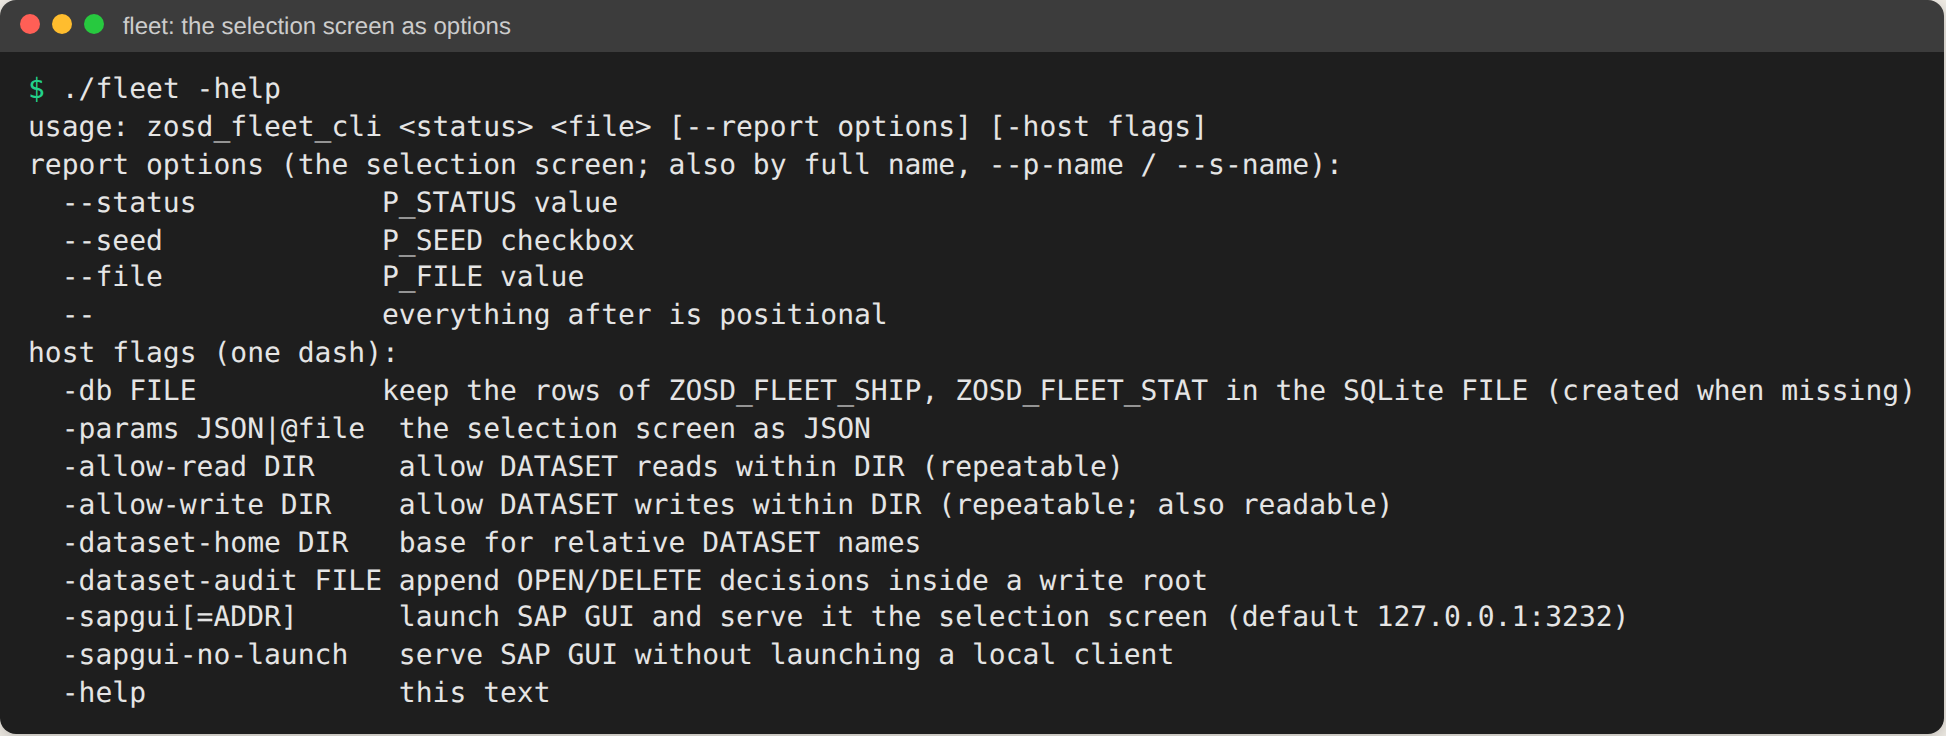
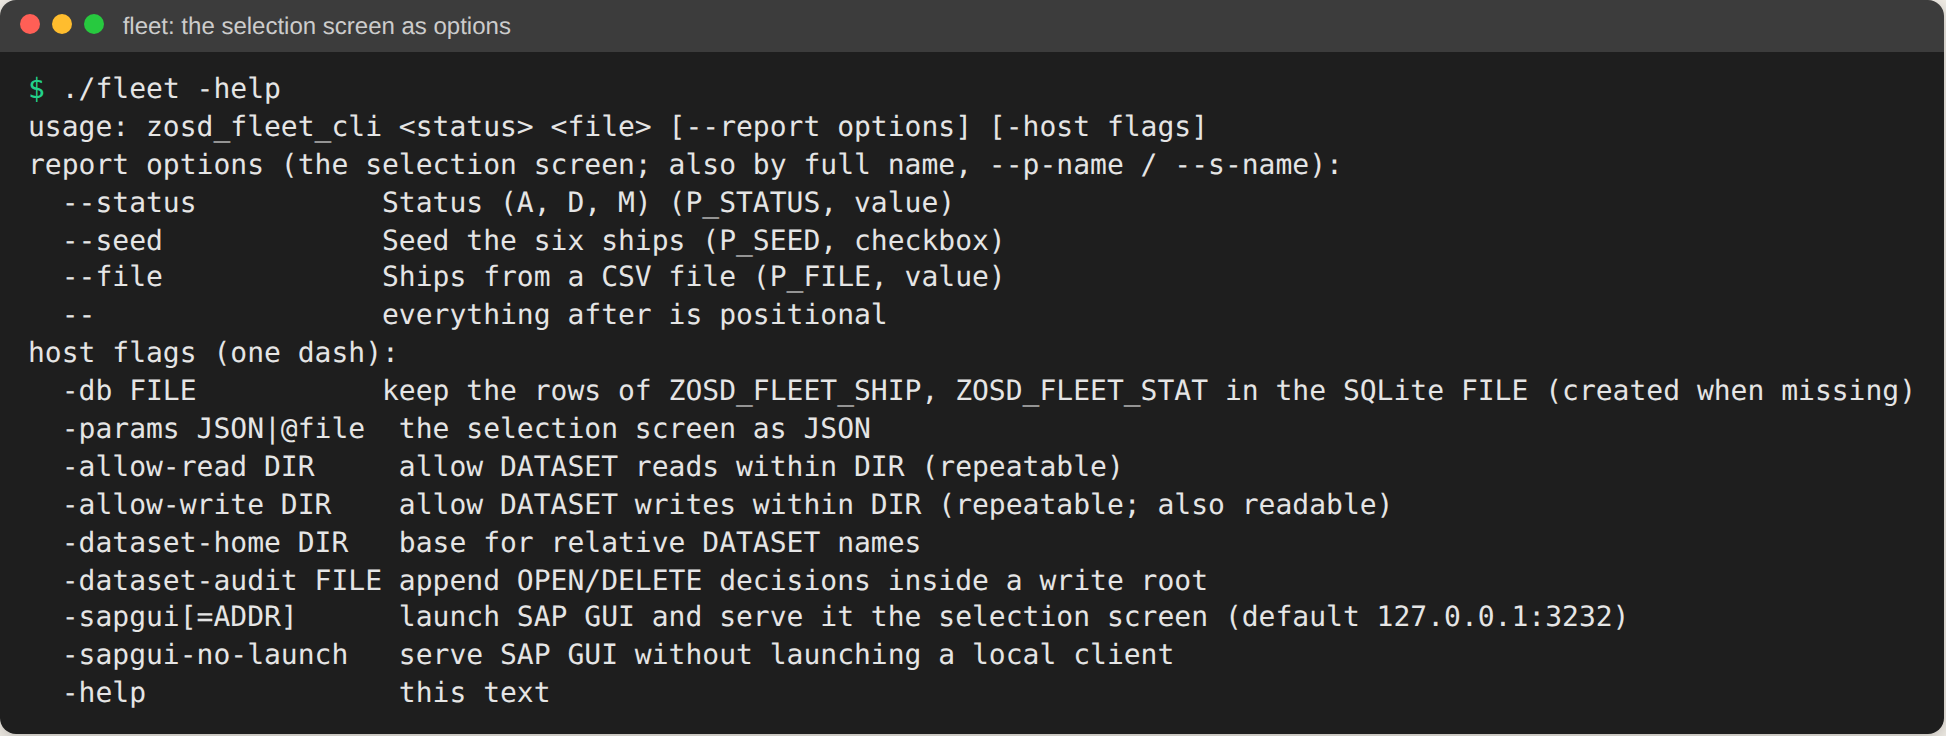
Fleet CLI: the form and -help show the report's selection texts
open-steamgate #363 reads the selection texts (TPOOL S) from the .prog.xml
beside a report. test/cli.mjs checks them in -help; test/cli-shots.mjs waits
for the "Status (A, D, M)" label; chapter 14 EN/RU drops the "labels are the
parameter names" limit; cli-help.png and tui-form.png reshot.

Claude-Session: https://claude.ai/code/session_018Djywwje7kdEq6CEr4LG73

Changed region(s): [[0.185, 0.25, 0.5242, 0.4062]]

diff --git a/book/ru/14-cli.md b/book/ru/14-cli.md
@@ -101,8 +101,8 @@ number; nothing loaded`, и ни один корабль из файла не с
 в док.
 
 Без терминала (канал, CI) программа спрашивает поля построчно, так что тот же
-бинарник работает в скриптах. Подписи полей - имена параметров: тексты экрана
-выбора отчета osabap пока не читает.
+бинарник работает в скриптах. Подписи полей - тексты экрана выбора отчета из
+`zosd_fleet_cli.prog.xml` рядом с ним, те же, что показывает `-help`.
 
 ## Что она умеет и чего нет
 
@@ -117,9 +117,9 @@ number; nothing loaded`, и ни один корабль из файла не с
   недоступным весь метод. `main` компилирует все восемнадцать; этот отчет держится
   простого `SELECT ... INTO TABLE` в стандартные таблицы.
 - **Пока нет**: запятой в строковом шаблоне цепочки `WRITE:` (пишите
-  `WRITE / ...` без двоеточия), `CATCH ... INTO` глобальной переменной и
-  текстов экрана выбора в подписях. `MESSAGE`, завершающему запуск, нужен
-  `main` open-steamgate начиная с #362.
+  `WRITE / ...` без двоеточия), и `CATCH ... INTO` глобальной переменной.
+  `MESSAGE`, завершающему запуск, нужен `main` open-steamgate начиная с #362,
+  текстам экрана выбора в подписях - начиная с #363.
 - **Файлы** через `OPEN`/`READ`/`TRANSFER DATASET` и `CL_GUI_FRONTEND_SERVICES`,
   внутри корней, которые разрешают `-allow-read` / `-allow-write`.
 - **Классы** рядом с отчетом или из папок `--lib`; классы open-abap-core,

diff --git a/book/14-cli.md b/book/14-cli.md
@@ -100,8 +100,9 @@ runs, Esc cancels. Type `M` in the status field and press Enter:
 Only `S006 Old Boiler` is in maintenance now: step 6 docked `S004 Cumulus`.
 
 Without a terminal (a pipe, CI) the program asks for the fields line by line
-instead, so the same binary works in scripts. The labels are the parameter
-names: osabap does not read the report's selection texts yet.
+instead, so the same binary works in scripts. The labels are the report's
+selection texts, from `zosd_fleet_cli.prog.xml` beside it, the same ones
+`-help` shows.
 
 ## What it can and cannot do
 
@@ -115,9 +116,9 @@ The report is built and checked against open-steamgate's `main`, past 0.4.
   one of them made the whole method unavailable. `main` compiles all eighteen;
   this report keeps to plain `SELECT ... INTO TABLE` into standard tables.
 - **Not yet**: a comma inside a string template of a chained `WRITE:` (write
-  it as `WRITE / ...` without the colon), `CATCH ... INTO` a global variable,
-  and the report's selection texts as labels. A `MESSAGE` that ends
-  the run needs open-steamgate `main` from #362 on.
+  it as `WRITE / ...` without the colon), and `CATCH ... INTO` a global variable. A
+  `MESSAGE` that ends the run needs open-steamgate `main` from #362 on, the
+  selection texts as labels from #363.
 - **Files** through `OPEN`/`READ`/`TRANSFER DATASET` and `CL_GUI_FRONTEND_SERVICES`,
   inside the roots `-allow-read` / `-allow-write` grant.
 - **Classes** beside the report or from `--lib` folders; open-abap-core
